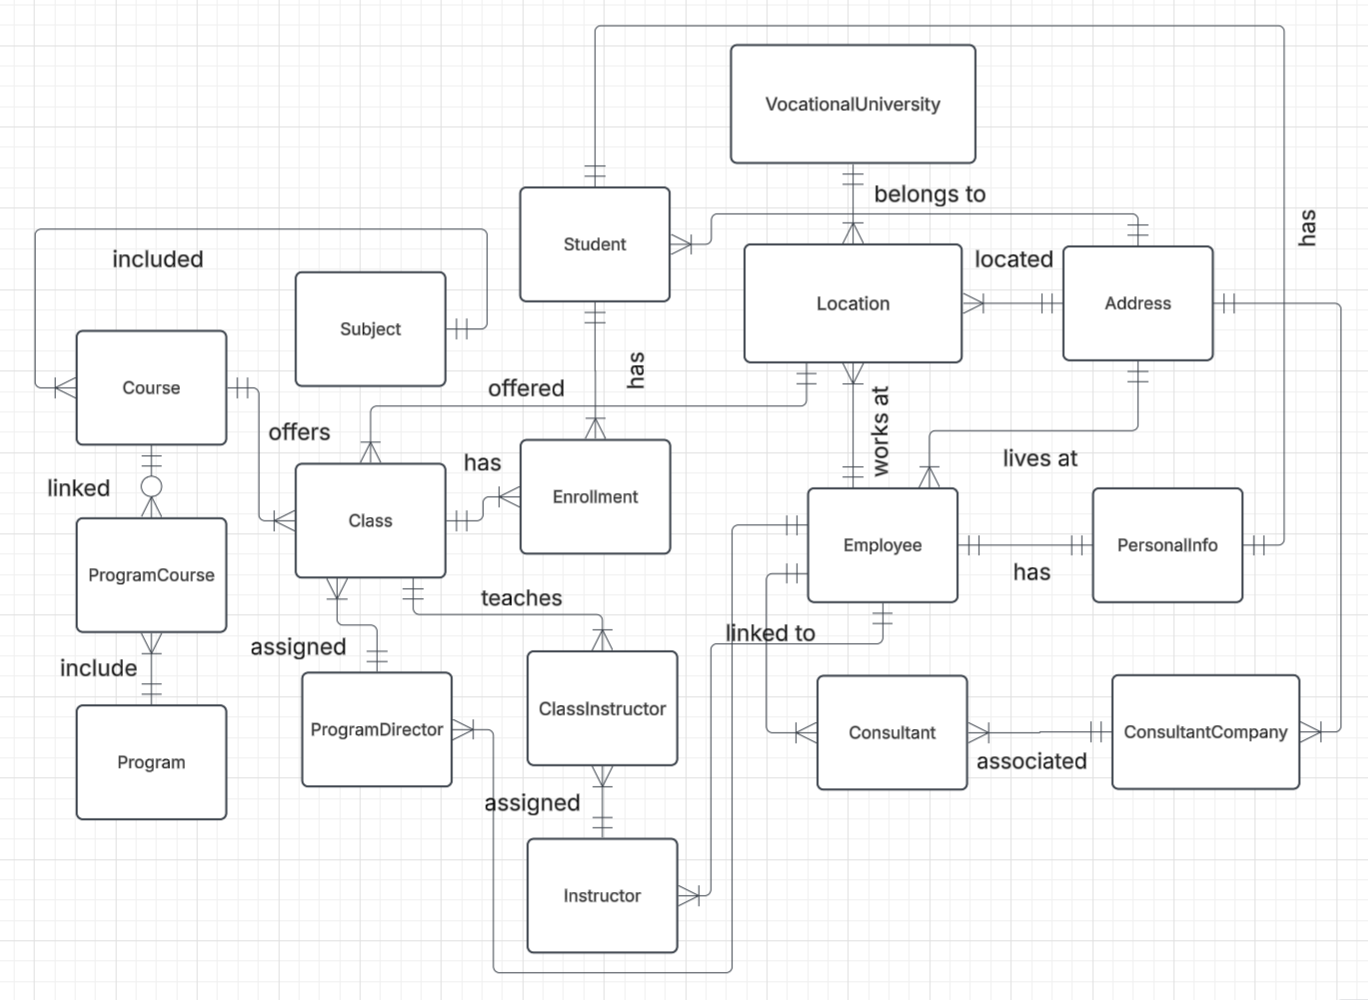
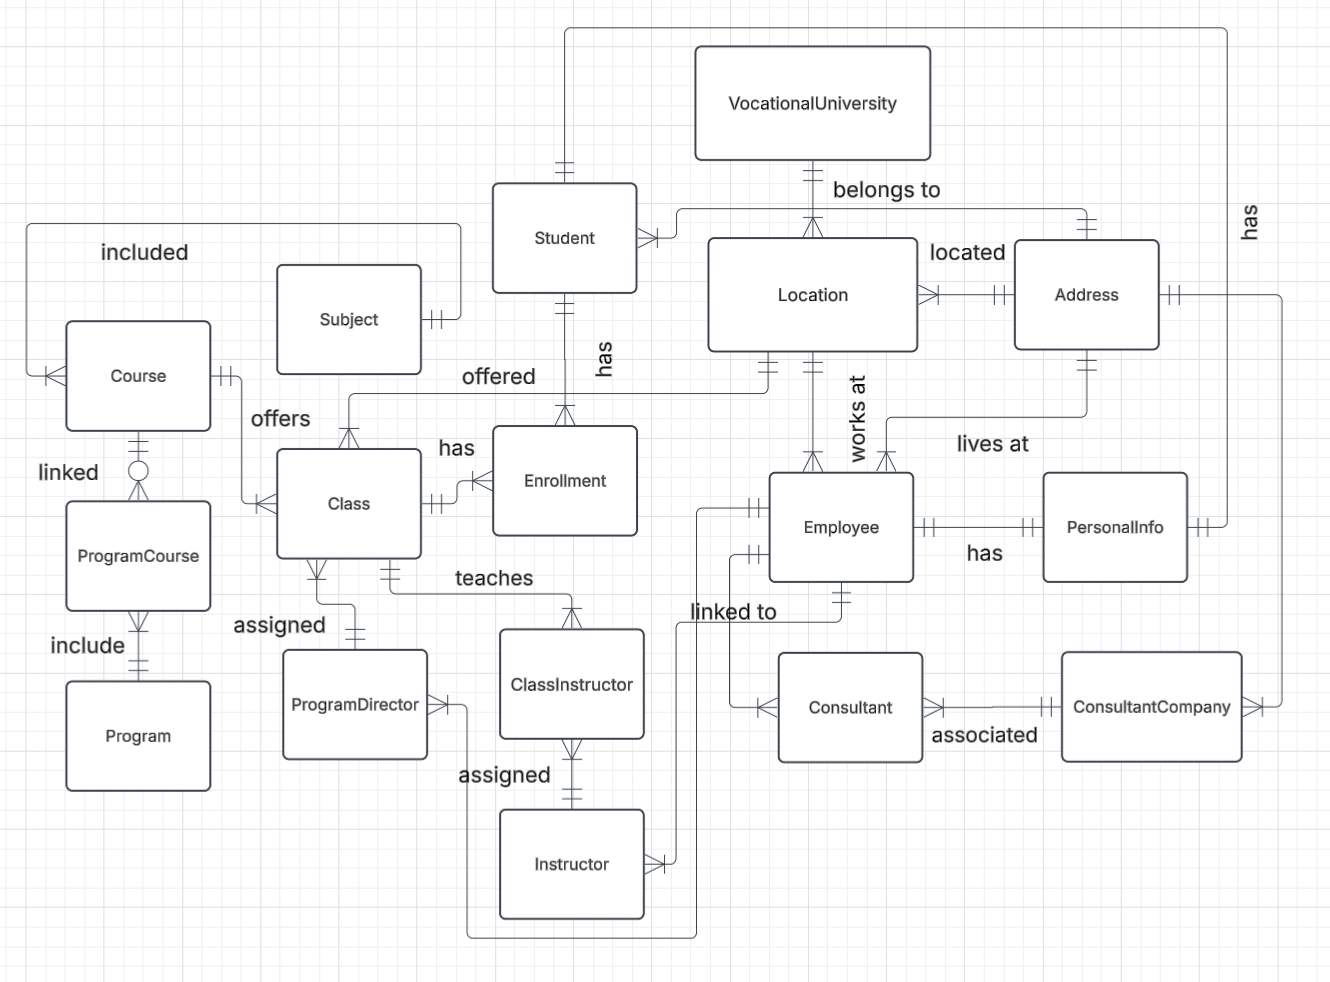
update employee-location

diff --git a/yh.md b/yh.md
@@ -50,8 +50,8 @@ Data model for organizing and managing vocational education operations.
 |                 |                      |             | ConsultantCompany, which is associated          |
 |                 |                      |             | with one or many Consultants                    |
 | --------------- | -------------------- | ----------- | ----------------------------------------------  |
-| Employee        | Location             | many-to-one | An Employee works at one or many Locations,     |
-|                 |                      |             | A Location is linked to one one Employee        |
+| Employee        | Location             | many-to-one | An Employee works at one Location,              |
+|                 |                      |             | A Location has one or many Employees            |
 |                 |                      |             |                                                 |
 | --------------- | -------------------- | ----------- | ----------------------------------------------  |
 | Location        | VocationalUniversity | many-to-one | A Location belongs to one VocationalUniversity, |
